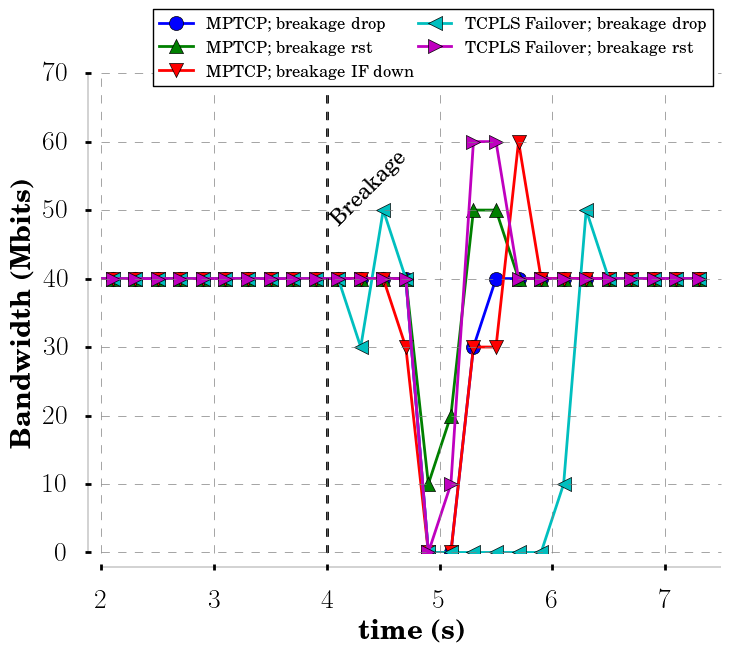
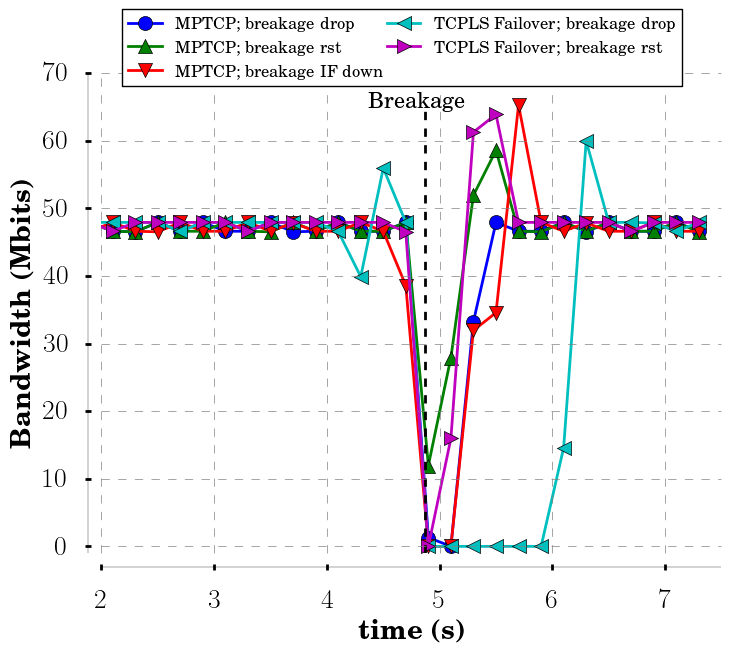
Breakage OK

diff --git a/pretty_plotify/plot_breakage.py b/pretty_plotify/plot_breakage.py
@@ -1,3 +1,4 @@
+from __future__ import division
 import os
 import argparse
 import pdb
@@ -91,12 +92,11 @@ if __name__ == "__main__":
     ax.set_ylabel(latex_label('Bandwidth (Mbits)'), fontsize=20)
 
     breakage = parse_time(args.breakage_at)
-    plt.axvline(x=(breakage-minimum)/1000000, color="k", ls='--', lw=2)
-    plt.text((breakage-minimum)/1000000, 57, legend_label('Breakage'), rotation=45,
-             fontsize=16)
+    plt.axvline(x=(breakage-minimum)/1000000, ymin=0, ymax=0.93, color="k", ls='--', lw=2)
+    plt.text(((breakage-minimum)/1000000)-0.5, 65, legend_label('Breakage'), fontsize=16)
+    #, rotation=45, fontsize=16)
 
     plt.legend(bbox_to_anchor=(-0.05,0.95,1,0.2), ncol=2, columnspacing=0.2, fontsize=12)
     grid(True, color='gray', linestyle='dashed', which='major')
 
-    savefig('breakage_analysis.pdf', bbox_inches='tight')
-    #plt.show()
+    savefig('breakage_analysis.png', bbox_inches='tight')

diff --git a/pretty_plotify/analyze_trace.py b/pretty_plotify/analyze_trace.py
@@ -1,7 +1,9 @@
+from __future__ import division
 import os
 import argparse
 import pdb
 import matplotlib.pyplot as plt
+from utils import *
 
 parser = argparse.ArgumentParser(description="")
 parser.add_argument("-ttcpls", type=str, help="The tcpdump simplified trace output\
@@ -178,5 +180,3 @@ if __name__ == "__main__":
     # ax2.legend()
     ax3.legend()
     plt.show()
-
-
